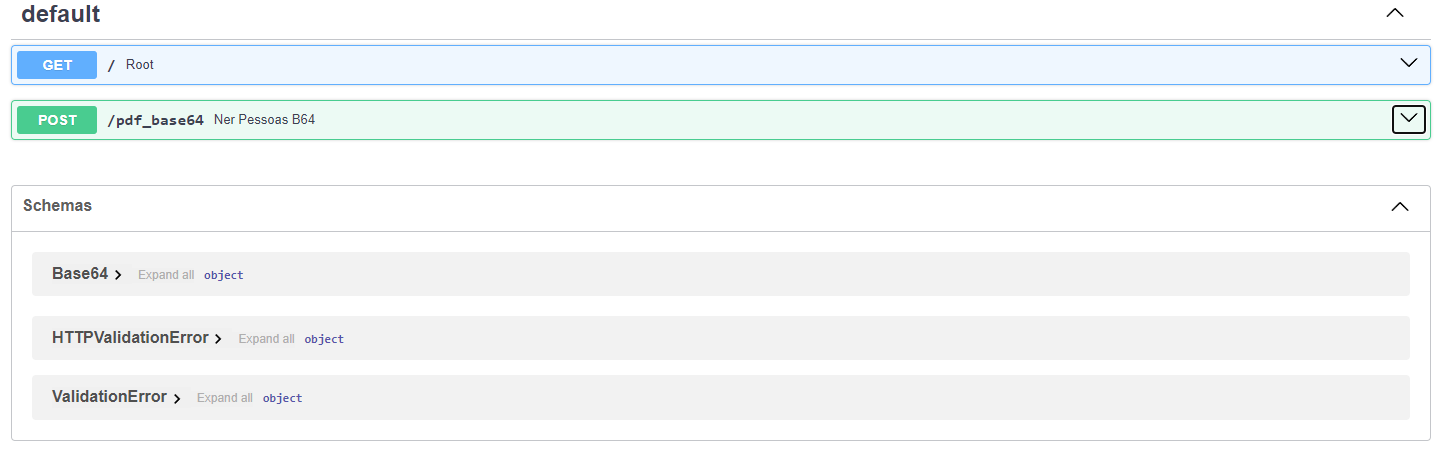
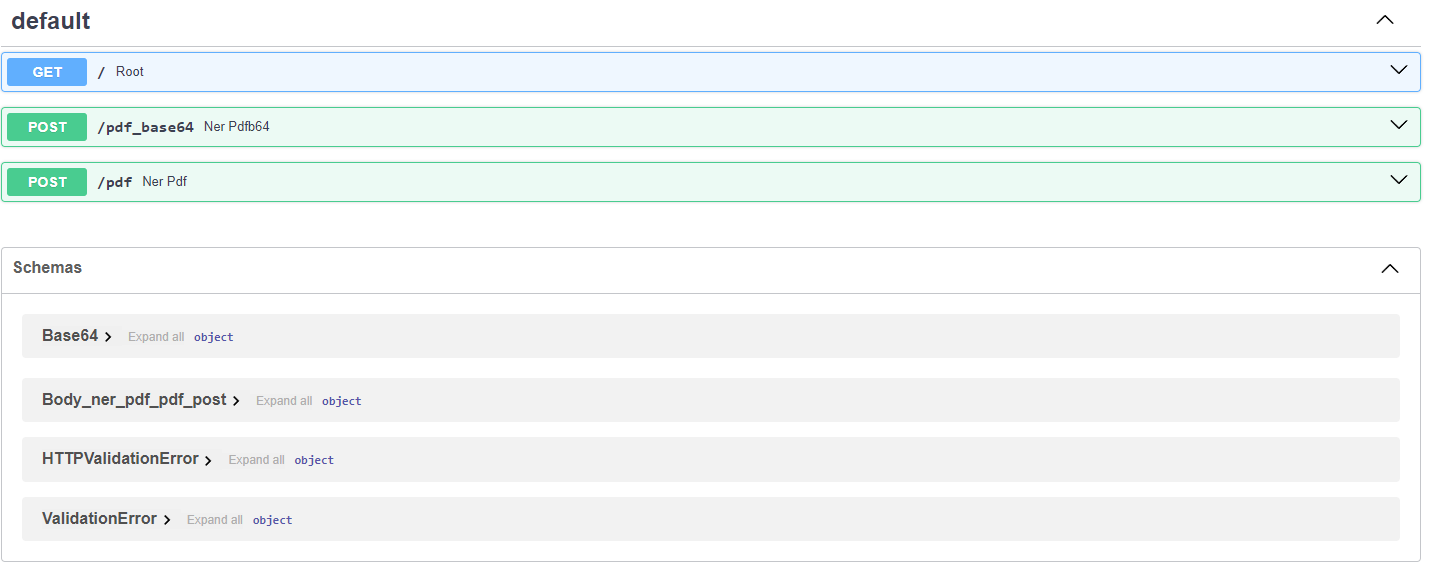
endpoint_att
pdf64 e pdf file endpoints;
readme_att

diff --git a/app.py b/app.py
@@ -32,7 +32,7 @@ def root():
 
 # Rota da API_NER
 @app.post("/pdf_base64") 
-def ner_pessoas_b64(item: Base64):
+def ner_pdfb64(item: Base64):
 
     temp = "./documents/output/" + token_hex(12) + ".pdf" # Criar destino/nome do arquivo temporário para salvar o Base64
     base64_bytes = item.pdf_base64.encode('ascii') # Converter os bytes do Base64 para sequencia de caracteres ASCII (em base64)
@@ -130,6 +130,101 @@ def ner_pessoas_b64(item: Base64):
     
     os.remove(temp) # Remove o arquivo temporário
 
+    return dict_final
+
+
+@app.post("/pdf") 
+def ner_pdf(pdf_file: UploadFile = File(...)):
+    
+    file_ext = pdf_file.filename.split(".").pop()
+    if file_ext not in ["pdf"]:
+        return "Formato de arquivo não suportado"
+
+    doc =  fitz.open(stream=pdf_file.file.read(), filetype="pdf")
+
+    # Extrair o texto do PDF
+    conteudo = ""
+    for page in doc:
+        conteudo += page.get_text().replace("\n", " ").replace("\r", " ").replace("\t", " ")
+
+    # Fechar o arquivo temporário
+    doc.close()
+
+    # Identificar as entidades nomeadas
+    document = NER(str(conteudo))
+
+    # Criar um conjunto para armazenar as entidades únicas
+    ents_unique = set()
+
+    # Identificar todas as entidades nomeadas referentes apenas à pessoas
+    for ent in document.ents:
+        if ent.label_ == 'PER':
+            ents_unique.add(ent.text)
+
+    ents_unique = list(ents_unique) # Converter o conjunto para lista
+
+    # Remover os prefixos dos nomes, tipo Sr., Sra., Dr., etc.
+    prefixos = ["Sr.",
+                "Sra.",
+                "Dr.",
+                "Dra.",
+                "Prof.",
+                "Profª.",
+                "Profº.",
+                "Vossa Excelência",
+                "Conselheiro",
+                "Conselheira",
+                "Relator",
+                "Relatora",
+                "Desembargador",
+                "Desembargadora",
+                "Ministro",
+                "Ministra",
+                "Senador",
+                "Senadora",
+                "Deputado",
+                "Deputada",
+                "Vereador",
+                "Vereadora",
+                "Prefeito",
+                "Prefeita",
+                "Governador",
+                "Governadora",
+                "Presidente",
+                "Presidenta",
+                "Secretário",
+                "Secretária",
+                "Procurador",
+                "Procuradora",
+                "Promotor",
+                "Promotora",
+                "Juiz",
+                "Juíza",
+                "Desembargador",
+                "Desembargadora",
+                "Diretor",
+                "Diretora",
+                "Professor",
+                "Professora"]
+    for prefixo in prefixos:
+        ents_unique = {nome.replace(prefixo, "").strip() for nome in ents_unique}
+
+    # Remover nomes que não possuem sobrenome
+    ents_unique = [nome for nome in ents_unique if " " in nome]
+
+     # Remover nomes que não possuem apenas letras no nome
+#    ents_unique = {nome for nome in ents_unique if nome.split(" ")[0].isalpha()}
+
+    # Remover nomes que possuem o primeiro nome abreviado, tipo A. B. C. ou iciando  com -
+    ents_unique = [nome for nome in ents_unique if "." not in nome.split(" ")[0]]
+    ents_unique = [nome for nome in ents_unique if "-" not in nome.split(" ")[0]]
+
+
+
+
+    # Criar um dicionário para armazenar as entidades únicas
+    dict_final = {"pessoas": ents_unique}
+    
     return dict_final
 
 

diff --git a/Readme.md b/Readme.md
@@ -79,9 +79,9 @@ Você poderá acessar a documentação interativa do aplicativo em `http://local
 
 ## 💬 Uso do aplicativo
 
-O aplicativo possui uma rota POST `/pdf_base64` que permite enviar um arquivo PDF em formato Base64 para extração de entidades nomeadas.
+O aplicativo possui duas rotas POST, ``/pdf`` e  `/pdf_base64`. A ``/pdf`` recebe o arquivo PDF como upload, e a ``/pdf_base64`` recebe uma `string` PDF em formato Base64 para extração de entidades nomeadas.
 
-### 🌫 Exemplo de solicitação
+### 🌫 Exemplo de solicitação: `base64`
 
 Para enviar um arquivo PDF, você precisará codificar o arquivo em formato Base64. Em seguida, faça uma solicitação POST para `http://localhost:5000/pdf_base64` com o seguinte payload:
 
@@ -92,6 +92,19 @@ Para enviar um arquivo PDF, você precisará codificar o arquivo em formato Base
 ```
 
 Substitua `<base64_encoded_pdf>` pelos dados do arquivo PDF codificados em formato Base64.
+
+### 🌫 Exemplo de solicitação: `.pdf`
+
+
+```bash
+curl -X 'POST' \
+  'http://10.1.11.67:5000/pdf' \
+  -H 'accept: application/json' \
+  -H 'Content-Type: multipart/form-data' \
+  -F 'pdf_file=@<pdf_filename>.pdf;type=application/pdf'
+
+```
+
 
 ### ✅ Exemplo de resposta
 
@@ -126,44 +139,7 @@ Remover a lista `prefixos`, caso não queira identificar entidades do tipo `'PER
                 "Sra.",
                 "Dr.",
                 "Dra.",
-                "Prof.",
-                "Profª.",
-                "Profº.",
-                "Vossa Excelência",
-                "Conselheiro",
-                "Conselheira",
-                "Relator",
-                "Relatora",
-                "Desembargador",
-                "Desembargadora",
-                "Ministro",
-                "Ministra",
-                "Senador",
-                "Senadora",
-                "Deputado",
-                "Deputada",
-                "Vereador",
-                "Vereadora",
-                "Prefeito",
-                "Prefeita",
-                "Governador",
-                "Governadora",
-                "Presidente",
-                "Presidenta",
-                "Secretário",
-                "Secretária",
-                "Procurador",
-                "Procuradora",
-                "Promotor",
-                "Promotora",
-                "Juiz",
-                "Juíza",
-                "Desembargador",
-                "Desembargadora",
-                "Diretor",
-                "Diretora",
-                "Professor",
-                "Professora"]
+                ...]
     for prefixo in prefixos:
         ents_unique = {nome.replace(prefixo, "").strip() for nome in ents_unique}
 ```
@@ -185,13 +161,12 @@ Remover esse snippet de código, caso deseje identificar entidades que não seja
 
 O aplicativo possui uma documentação interativa gerada automaticamente pelo Swagger. Você pode acessar a documentação em `http://localhost:5000/docs`.
 
-![Figura 1](misc/image.png)
+![Figura 1](/misc/image.png)
 
-![Figura 2](misc/image2.png)
+![Figura 2](/misc/image1.png)
 
-![Figura 3](misc/image3.png)
+![Figura 3](/misc/image2.png)
 
 ## 🤝 Considerações finais
 
 Este é um aplicativo simples para extrair entidades nomeadas de arquivos PDF. Sinta-se à vontade para utilizar, modificar e melhorar o código conforme necessário.
-
